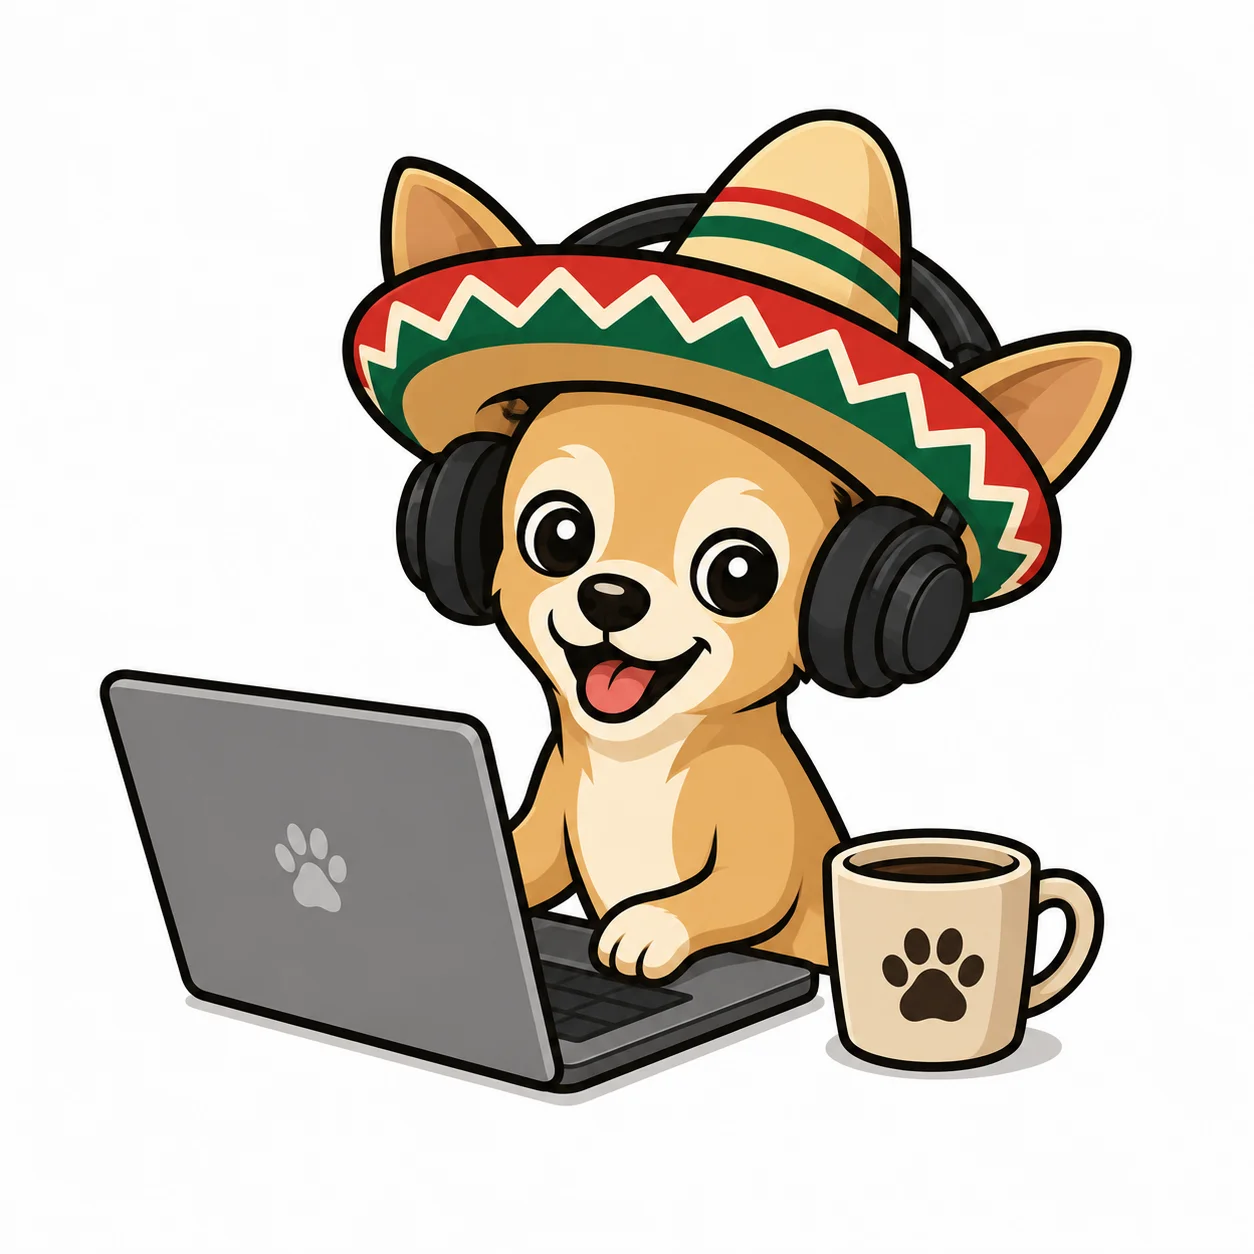
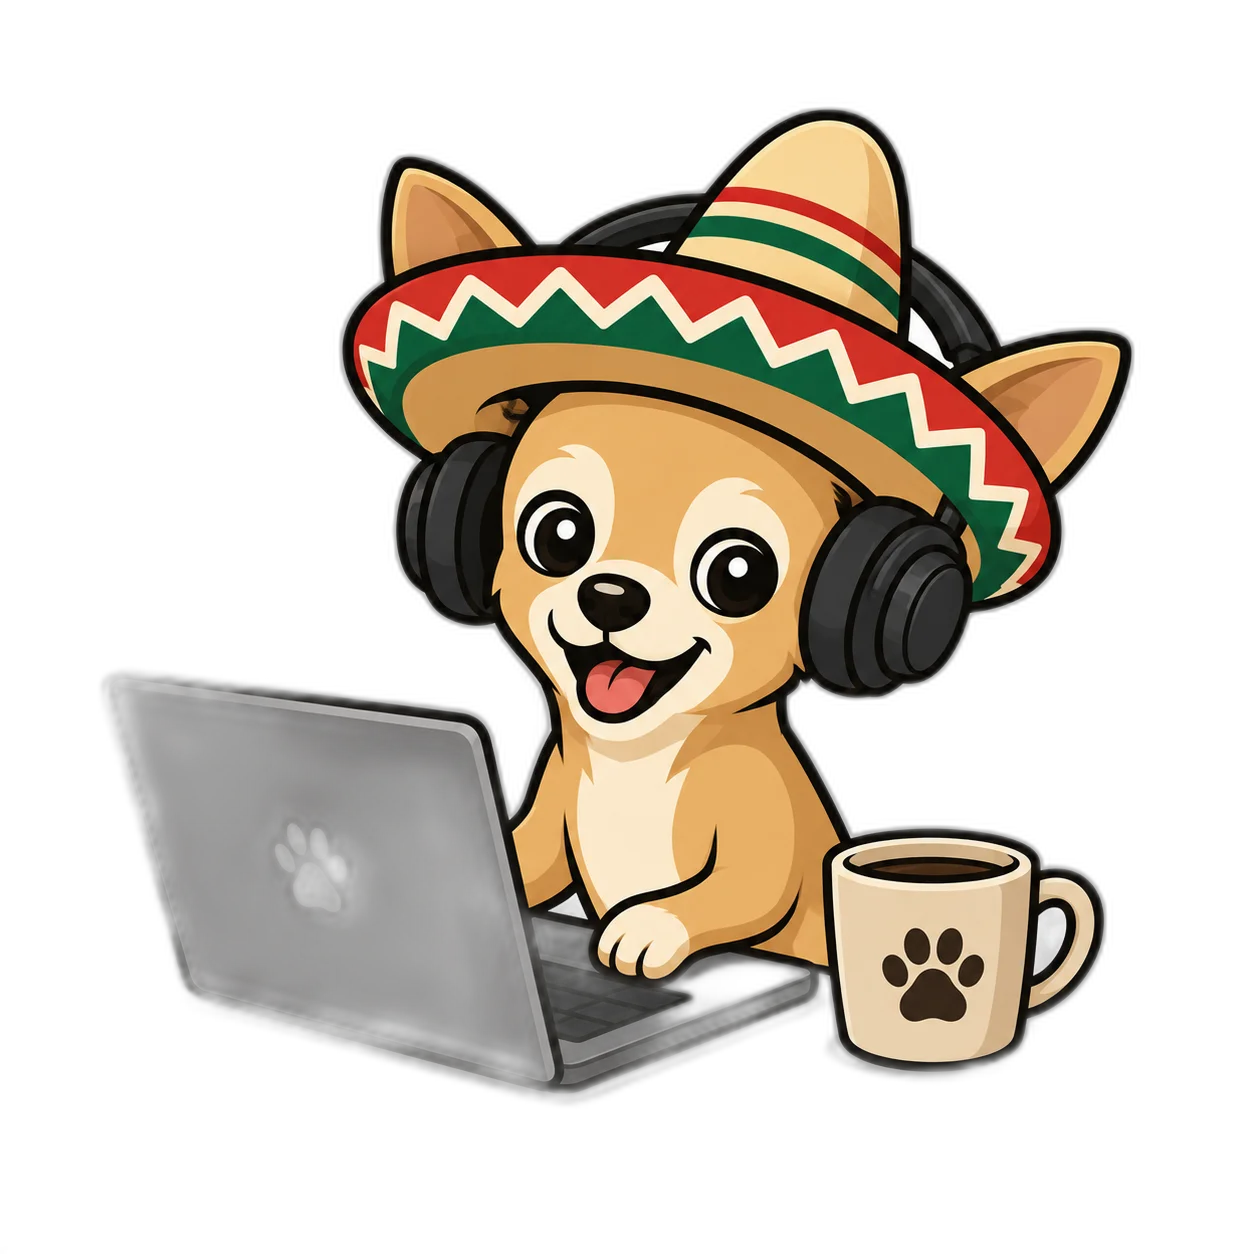
Remove white background from hero image using AI segmentation

diff --git a/public/index.html b/public/index.html
@@ -60,7 +60,7 @@
     </div>
     <div class="blueprint hero-image" style="aspect-ratio:4/5;">
       <i class="corner tl"></i><i class="corner tr"></i><i class="corner bl"></i><i class="corner br"></i>
-      <img src="/chihuahua-hero.webp" alt="Chihuahua mascot" style="width:100%;height:100%;object-fit:contain;background:var(--color-bg);">
+      <img src="/chihuahua-hero.webp" alt="Chihuahua mascot" style="width:100%;height:100%;object-fit:contain;">
     </div>
   </section>
 
